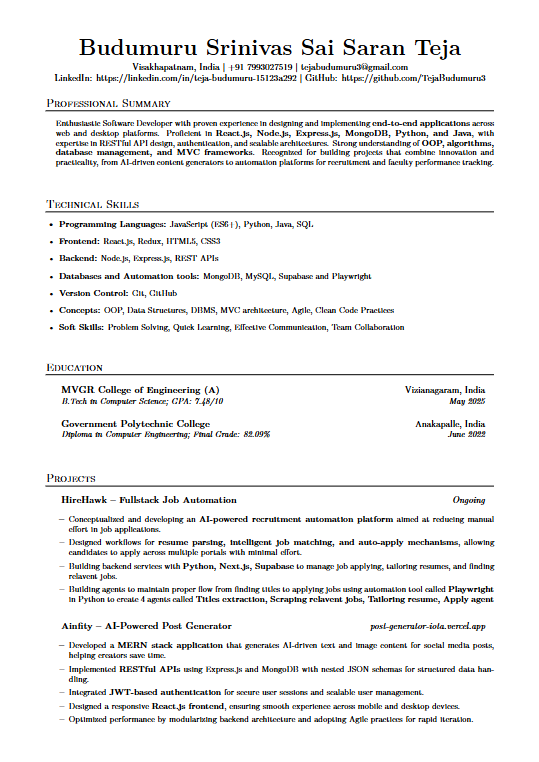
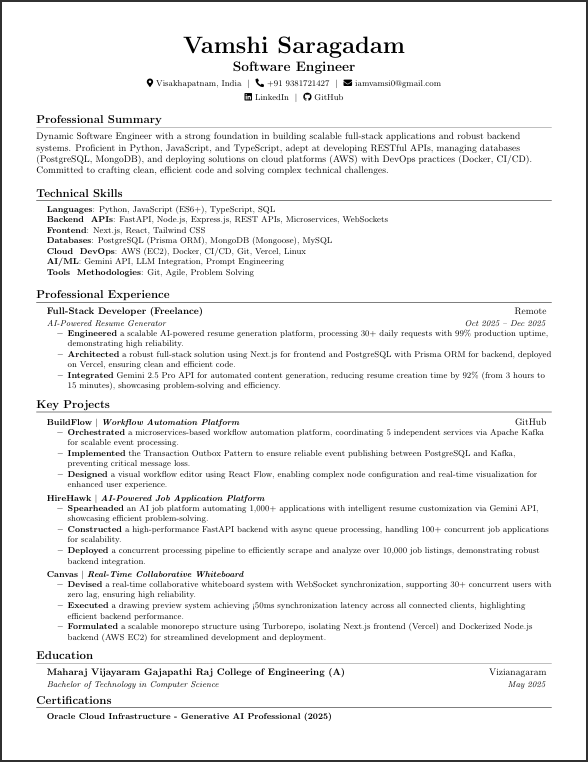
fix: update browser visibility in scraper agent and enhance LinkedIn context handling with user checks

Changed region(s): [[0.0594, 0.0302, 0.9499, 0.9659], [0.0, 0.0, 1.0, 1.0]]

diff --git a/my-fe/app/utiles/agentsCall.ts b/my-fe/app/utiles/agentsCall.ts
@@ -10,8 +10,9 @@ interface JobsData{
 async function sendUrl(url: string, user_id: string, password: string) {
     let progress_user: string | null
     const { data, error } = await getLoginUser();
-    if(data?.user){
+    if(data?.user.email){
         progress_user = data?.user.user_metadata.email
+        console.log('email from data progress ', data.user.email)
     }
     else progress_user = null
 try {

diff --git a/backend_python/agents/tailor.py b/backend_python/agents/tailor.py
@@ -119,168 +119,180 @@ def extract_resume_text(url: str) -> str:
 
 # ╭── Prompt builder ─────────────────────────────────────────────╮
 _SAMPLE0 = r"""
-\documentclass[a4paper,12pt]{article}
-
+\documentclass[letterpaper,10pt]{article}
+\usepackage{latexsym}
 \usepackage[empty]{fullpage}
 \usepackage{titlesec}
+\usepackage{marvosym}
+\usepackage[usenames,dvipsnames]{color}
+\usepackage{verbatim}
 \usepackage{enumitem}
 \usepackage[hidelinks]{hyperref}
 \usepackage{fancyhdr}
+\usepackage{fontawesome5} 
+\usepackage[english]{babel}
+\usepackage{tabularx}
+\input{glyphtounicode}
 
+% --- MARGINS & SPACING ---
 \pagestyle{fancy}
-\fancyhf{}
+\fancyhf{} 
 \fancyfoot{}
 \renewcommand{\headrulewidth}{0pt}
 \renewcommand{\footrulewidth}{0pt}
 
-% Adjusted margins for proper whitespace
-\addtolength{\oddsidemargin}{-0.3in}
-\addtolength{\evensidemargin}{-0.3in}
-\addtolength{\textwidth}{0.6in}
-\addtolength{\topmargin}{-0.4in}
-\addtolength{\textheight}{0.8in}
+% Optimized margins for 1-page fit
+\addtolength{\oddsidemargin}{-0.5in}
+\addtolength{\evensidemargin}{-0.5in}
+\addtolength{\textwidth}{1.0in}
+\addtolength{\topmargin}{-0.5in}
+\addtolength{\textheight}{1.0in}
 
-% Formatting for section titles
-\titleformat{\section}{%
-  \scshape\raggedright\large
-}{}{0em}{}[\titlerule]
+\urlstyle{same}
+\raggedbottom
+\raggedright
+\setlength{\tabcolsep}{0in}
 
-\newcommand{\resumeItem}[1]{\item\small{{#1}}}
+% --- SECTION FORMATTING ---
+\titleformat{\section}{
+  \vspace{-4pt}\scshape\raggedright\large\bfseries
+}{}{0em}{}[\color{black}\titlerule \vspace{-5pt}]
 
-% Subheading for education (4 args)
-\newcommand{\resumeSubheading}[4]{\vspace{2pt}\item
+% --- CUSTOM COMMANDS ---
+\newcommand{\resumeItem}[1]{
+  \item\small{
+    {#1 \vspace{-2pt}}
+  }
+}
+
+\newcommand{\resumeProjectHeading}[2]{
+    \item
+    \begin{tabular*}{0.97\textwidth}{l@{\extracolsep{\fill}}r}
+      \small\textbf{#1} & #2 \\
+    \end{tabular*}\vspace{-7pt}
+}
+
+\newcommand{\resumeSubheading}[4]{
+  \vspace{-1pt}\item
     \begin{tabular*}{0.97\textwidth}[t]{l@{\extracolsep{\fill}}r}
-      {\bfseries #1} & #2 \\
+      \textbf{#1} & #2 \\
       \textit{\small#3} & \textit{\small #4} \\
-    \end{tabular*}\vspace{2pt}
+    \end{tabular*}\vspace{-7pt}
 }
 
-% Project heading (2 args)
-\newcommand{\resumeProjectHeading}[2]{\item
-  \begin{tabular*}{0.97\textwidth}{l@{\extracolsep{\fill}}r}
-    {\bfseries #1} & \textit{#2} \\
-  \end{tabular*}\vspace{2pt}
-}
-
-\newcommand{\resumeItemListStart}{\begin{itemize}[leftmargin=0.2in]}
-\newcommand{\resumeItemListEnd}{\end{itemize}\vspace{6pt}}
 \newcommand{\resumeSubHeadingListStart}{\begin{itemize}[leftmargin=0.15in, label={}]}
-\newcommand{\resumeSubHeadingListEnd}{\end{itemize}\vspace{8pt}}
-\newcommand{\resumeSubHeadingListEndNoSpace}{\end{itemize}\vspace{4pt}}
+\newcommand{\resumeSubHeadingListEnd}{\end{itemize}}
+\newcommand{\resumeItemListStart}{\begin{itemize}}
+\newcommand{\resumeItemListEnd}{\end{itemize}\vspace{-5pt}}
 
+%-------------------------------------------
+%  RESUME STARTS HERE
+%-------------------------------------------
 \begin{document}
 
-%----------HEADING----------
+%----------HEADER----------
 \begin{center}
     {\Huge \bfseries Budumuru Srinivas Sai Saran Teja} \\ \vspace{3pt}
-    Visakhapatnam, India $|$ +91 7993027519 $|$ \href{mailto:tejabudumuru3@gmail.com}{tejabudumuru3@gmail.com} \\
-    \href{https://linkedin.com/in/teja-budumuru-15123a292}{LinkedIn} $|$ 
-    \href{https://github.com/TejaBudumuru3}{GitHub}
+    {\Large \bfseries Backend Engineer \& GenAI Specialist} \\ \vspace{5pt}
+    
+    \small
+    \faMapMarker* Visakhapatnam, India \ $|$ \ 
+    \faPhone* +91 7993027519 \ $|$ \ 
+    \faEnvelope \ \href{mailto:tejabudumuru3@gmail.com}{tejabudumuru3@gmail.com} \\ \vspace{4pt}
+    
+    \faLinkedin \ \href{https://www.linkedin.com/in/srinivas-sai-saran-teja-budumuru-15123a292/}{Linkedin} \ $|$ \ 
+    \faGithub \ \href{https://github.com/TejaBudumuru3}{Github} \ $|$ \ 
+    \faGlobe \ \href{https://teja-budumuru.vercel.app}{Portfolio}
 \end{center}
 
 %-----------PROFESSIONAL SUMMARY-----------
 \section{Professional Summary}
+Full-Stack AI Engineer capable of delivering end-to-end SaaS solutions. Proven ability to architect complex workflow engines (DAGs) and AI-powered platforms using the \textbf{MERN Stack} and \textbf{FastAPI}. Skilled in modern Cloud DevOps (\textbf{AWS/CI/CD}) and API design. Passionate about leveraging Large Language Models (LLMs) to solve complex business problems through intelligent, human-in-the-loop automation.
+
+%-----------TECHNICAL SKILLS (Fixed & Complete)-----------
+\section{Technical Skills}
+ \begin{itemize}[leftmargin=0.15in, label={}]
+    \small{\item{
+     \textbf{Languages}{: Python, JavaScript (ES6+), TypeScript, SQL, Java} \\
+     \textbf{Backend \& AI}{: FastAPI, Node.js, Express.js, Microservices, Gemini API, Kafka, WebSockets, Webhook}
+     \\
+     \textbf{Frontend}{: React.js, Next.js, Tailwindcss, Bootstrap Css, HTML, CSS}
+     \textbf{Database \& Infra}{: Supabase(PostgreSQL), MongoDB, Docker, AWS (EC2), CI/CD (GitHub Actions), Prisma ORM} \\
+     \textbf{Tools \& Traits}{: Playwright, Redux, Postman, Git, Agile, Teamwork, Problem Solving}
+    }}
+ \end{itemize}
+
+%-----------PROJECTS-----------
+\section{Key Projects}
 \resumeSubHeadingListStart
-\resumeItem{
-Enthusiastic Software Developer with proven experience in designing and implementing \textbf{end-to-end applications} across web and desktop platforms. Proficient in \textbf{React.js, Node.js, Express.js, MongoDB, Python, and Java}, with expertise in RESTful API design, authentication, and scalable architectures. Strong understanding of \textbf{OOP, algorithms, database management, and MVC frameworks}. Recognized for building projects that combine innovation and practicality, from AI-driven content generators to automation platforms for recruitment and faculty performance tracking.
-}
+
+    % PROJECT 1: BuildFlow (N8N Clone)
+    \resumeProjectHeading
+    {\textbf{BuildFlow} $|$ \emph{Workflow Automation Engine}}
+    {\href{https://github.com/Dev-Pross/BuildFlow}{Github}}
+    \resumeItemListStart
+        \resumeItem{\textbf{Spearheaded} the architecture of a low-code platform capable of executing \textbf{Directed Acyclic Graphs (DAGs)}, targeting sub-200ms latency per node.}
+        \resumeItem{\textbf{Orchestrated} a distributed task processing system using \textbf{TypeScript} and \textbf{Kafka}, enabling asynchronous execution of concurrent workflows.}
+        \resumeItem{\textbf{Formulated} a resilient state management module to handle execution context, mitigating workflow failures by \textbf{40\%} via automated error propagation.}
+    \resumeItemListEnd
+
+    % PROJECT 2: HireHawk
+    \resumeProjectHeading
+    {\textbf{HireHawk} $|$ \emph{AI Job Automation Agent}}
+    {\href{https://dev-hire-znlr.vercel.app/}{Live Link}}
+    \resumeItemListStart
+        \resumeItem{\textbf{Devised} an AI Agent that curtails manual job application time by \textbf{80\%} using a "Human-in-the-Loop" architecture with \textbf{Playwright}.}
+        \resumeItem{\textbf{Embedded} a \textbf{Context-Aware Resume Engine} that parses JDs and user data to dynamically synthesize tailored resumes using \textbf{Gemini API}.}
+        \resumeItem{\textbf{Engineered} a high-volume batch processing pipeline capable of sustaining \textbf{10+ sequential applications} per session without IP throttling.}
+    \resumeItemListEnd
+
+    % PROJECT 3: Ainfinity
+    \resumeProjectHeading
+    {\textbf{Ainfinity} $|$ \emph{Generative AI Content SaaS}}
+    {\href{https://post-generator-iota.vercel.app/}{Live Link}}
+    \resumeItemListStart
+        \resumeItem{\textbf{Constructed} a full-stack content generation platform using the \textbf{MERN Stack}, accelerating RESTful API response times to under \textbf{300ms}.}
+        \resumeItem{\textbf{Fortified} secure session management using \textbf{HTTP-Only Cookies}, eliminating potential XSS and CSRF vulnerabilities.}
+        \resumeItem{\textbf{Synchronized} global application state using \textbf{Redux Toolkit}, ensuring seamless data consistency across the frontend.}
+    \resumeItemListEnd
+
 \resumeSubHeadingListEnd
 
+%-----------PROFESSIONAL EXPERIENCE-----------
+\section{Professional Experience}
+\resumeSubHeadingListStart
 
-%-----------TECHNICAL SKILLS-----------
-\section{Technical Skills}
-\resumeItemListStart
-  \resumeItem{\textbf{Programming Languages:} JavaScript (ES6+), Python, Java, SQL}
-  \resumeItem{\textbf{Frontend:} React.js, Redux, HTML5, CSS3}
-  \resumeItem{\textbf{Backend:} Node.js, Express.js, REST APIs}
-  \resumeItem{\textbf{Databases and Automation tools:} MongoDB, MySQL, Supabase and Playwright}
-  \resumeItem{\textbf{Version Control:} Git, GitHub}
-  \resumeItem{\textbf{Concepts:} OOP, Data Structures, DBMS, MVC architecture, Agile, Clean Code Practices}
-  \resumeItem{\textbf{Soft Skills:} Problem Solving, Quick Learning, Effective Communication, Team Collaboration}
-\resumeItemListEnd
+    \resumeSubheading
+      {Backend API Engineer}{Remote}
+      {Freelance Project: Resume Tailoring \& Portfolio Engine}{Nov 2025 -- Present}
+      \resumeItemListStart
+        \resumeItem{\textbf{Tailored} a production-ready API for generating ATS-friendly resumes, optimizing dynamic templates to reduce document generation latency by \textbf{40\%}.}
+        \resumeItem{\textbf{Unified} data ingestion pipelines by creating polymorphic endpoints that process both raw JSON and PDF inputs.}
+        \resumeItem{\textbf{Provisioned} production infrastructure on \textbf{AWS EC2} using Docker, ensuring \textbf{reliable 24/7 system availability} for client operations.}
+      \resumeItemListEnd
+
+\resumeSubHeadingListEnd
 
 %-----------EDUCATION-----------
 \section{Education}
-\resumeSubHeadingListStart
-  \resumeSubheading
-    {MVGR College of Engineering (A)}{Vizianagaram, India}
-    {B.Tech in Computer Science; GPA: 7.48/10}{May 2025}
-  \resumeSubheading
-    {Government Polytechnic College}{Anakapalle, India}
-    {Diploma in Computer Engineering; Final Grade: 82.09\%}{June 2022}
-\resumeSubHeadingListEnd
-
-%-----------PROJECTS-----------
-\section{Projects}
-\resumeSubHeadingListStart
-
-\resumeProjectHeading
-    {HireHawk – Fullstack Job Automation}{Ongoing}
-    \resumeItemListStart
-      \resumeItem{Conceptualized and developing an \textbf{AI-powered recruitment automation platform} aimed at reducing manual effort in job applications.}
-      \resumeItem{Designed workflows for \textbf{resume parsing, intelligent job matching, and auto-apply mechanisms}, allowing candidates to apply across multiple portals with minimal effort.}
-      \resumeItem{Building backend services with \textbf{Python, Next.js, Supabase} to manage job applying, tailoring resumes, and finding relavent jobs.}
-      \resumeItem{Building agents to maintain proper flow from finding titles to applying jobs using automation tool called \textbf{Playwright} in Python to create 4 agents called \textbf{Titles extraction, Scraping relavent jobs, Tailoring resume, Apply agent}}
-    \resumeItemListEnd
-
-\resumeProjectHeading
-    {Ainfity – AI-Powered Post Generator}{{\href{https://post-generator-iota.vercel.app/}{post-generator-iota.vercel.app}}}
-    \resumeItemListStart
-      \resumeItem{Developed a \textbf{MERN stack application} that generates AI-driven text and image content for social media posts, helping creators save time.}
-      \resumeItem{Implemented \textbf{RESTful APIs} using Express.js and MongoDB with nested JSON schemas for structured data handling.}
-      \resumeItem{Integrated \textbf{JWT-based authentication} for secure user sessions and scalable user management.}
-      \resumeItem{Designed a responsive \textbf{React.js frontend}, ensuring smooth experience across mobile and desktop devices.}
-      \resumeItem{Optimized performance by modularizing backend architecture and adopting Agile practices for rapid iteration.}
-    \resumeItemListEnd
-
-\resumeProjectHeading
-    {Faculty Performance Monitor}{}
-    \resumeItemListStart
-      \resumeItem{Developed a \textbf{Java-based web portal} using JSP and MySQL for tracking faculty workload and performance scores.}
-      \resumeItem{Implemented role-based access controls, enabling administrators to assign credits and generate evaluation reports.}
-      \resumeItem{Applied \textbf{MVC architecture} to ensure clean separation of logic, improving maintainability and scalability.}
-      \resumeItem{Optimized SQL queries to improve reporting efficiency and ensure quick data retrieval for administrators.}
-    \resumeItemListEnd
-
-\resumeProjectHeading
-    {Employee Management System}{}
-    \resumeItemListStart
-      \resumeItem{Created a \textbf{Python desktop application} with Tkinter GUI and MySQL backend for automating employee payroll processes.}
-      \resumeItem{Developed modules for \textbf{salary computation, tax deduction, and employee record management}.}
-      \resumeItem{Implemented validation and exception handling to ensure reliable data storage and reduce errors in payroll.}
-      \resumeItem{Minimized manual intervention, thereby reducing processing time and improving organizational efficiency.}
-    \resumeItemListEnd
-
-\resumeSubHeadingListEnd
+  \resumeSubHeadingListStart
+    \resumeSubheading
+      {MVGR College of Engineering (A)}{Vizianagaram}
+      {B.Tech in Computer Science and Engineering;}{May 2025}
+    \resumeSubheading
+      {Government Polytechnic College}{Anakapalle}
+      {Diploma in Computer Engineering; }{June 2022}
+  \resumeSubHeadingListEnd
 
 %-----------CERTIFICATIONS-----------
 \section{Certifications}
 \resumeSubHeadingListStart
-\resumeItem{AI and Machine Learning -- AICTE}
-\resumeItem{Cloud Computing -- NPTEL}
-\resumeItem{Java JUnit -- Infosys SpringBoard}
-\resumeItem{Foundations of Artificial Intelligence -- SkillUp}
+    \resumeItem{\textbf{Oracle Certified Generative AI Professional (2025)} -- \href{https://catalog-education.oracle.com/ords/certview/sharebadge?id=BD6B7CF412F7B7B177182CB5A13B29CE3218255114ABB2C19070B7B5A512E48F}{[Verify Badge]}}
+    \resumeItem{\textbf{Oracle Cloud Infrastructure Foundations Associate} -- \href{https://catalog-education.oracle.com/ords/certview/sharebadge?id=1DCE05167148ED0D0575B553F7110B6CACC6BFBA54E628910002B76EBE582144}{[Verify Badge]}}
 \resumeSubHeadingListEnd
 
-%-----------ACHIEVEMENTS-----------
-\section{Achievements}
-\resumeItemListStart
-  \resumeItem{Participated in Pega Systems Hackathon, demonstrating innovation, problem-solving, and teamwork skills.}
-
-  \resumeItem{Recognized for artistic achievements in drawing competitions (early academic years).}
-\resumeItemListEnd
-
-%-----------LANGUAGES-----------
-\section{Languages}
-\resumeSubHeadingListStart
-  \resumeItem{\textbf{English:} Advanced}
-  \resumeItem{\textbf{Telugu:} Native Proficiency}
-\resumeSubHeadingListEndNoSpace
-
 \end{document}
-
-
-"""
+    """
 
 _SAMPLE1 = r"""
 \documentclass[a4paper,10pt]{article}
@@ -713,7 +725,7 @@ This prompt provides detailed explanations for each step. Understanding the 'why
 1.  **Parse and Structure First**: Your initial and most critical task is to convert the unstructured, messy text from a PDF into a clean, structured internal representation. You cannot tailor content you do not understand.
     * **Rationale**: PDF text extraction is imperfect. Raw text will have random line breaks and spacing. You must intelligently group this text into logical resume sections (Summary, Skills, Projects, etc.) before any tailoring can begin.
 
-2.  **Tailor with Precision and Honesty**: You will strategically rewrite specific sections of the resume to align with the job description. However, you must never invent skills or experiences the candidate does not possess. Your goal is to highlight existing qualifications, not to fabricate new ones.
+2.  **Tailor with Precision and Honesty**: You will strategically rewrite specific sections of the resume to align with the job description. However, you must never invent skills or experiences the candidate does not possess. Your goal is to highlight existing qualifications, not to fabricate new ones. Don't use repeated verbs, use fancy verbs and make sure grammatical mistake free resume with short Professional Summary for single page resume(SPR) to fit all content in one page it self only for FRESHER /(NO PROFESSIONAL EXPERIENCED CANDIDATES)
     * **Rationale**: Honesty is paramount. While the goal is to pass ATS scans, the resume must be a truthful representation of the candidate for the human hiring manager who will read it next.
 
 3.  **Reconstruct with Flawless Code**: The final output must be a syntactically perfect LaTeX document formatted according to the provided template.

diff --git a/backend_python/database/linkedin_context.py b/backend_python/database/linkedin_context.py
@@ -20,8 +20,15 @@ def save_linkedin_context(user_id: str, context_data: dict):
             WHERE email = %s
         """
         cursor.execute(query, (Json(context_data), datetime.utcnow(), user_id))
+        rows_affected = cursor.rowcount
         conn.commit()
-        print(f"✅ LinkedIn context saved for user {user_id}")
+        
+        if rows_affected == 0:
+            print(f"⚠ No user found with email '{user_id}' - context NOT saved!")
+            print(f"   Hint: Check if user exists in database or if email is correct")
+            return False
+        
+        print(f"✅ LinkedIn context saved for user {user_id} ({rows_affected} row(s) updated)")
         return True
     except Exception as e:
         conn.rollback()
@@ -37,6 +44,25 @@ def get_linkedin_context(user_id: str):
     cursor = conn.cursor()
     
     try:
+        # Debug: Check if user exists first
+        check_query = """
+            SELECT email, linkedin_context IS NOT NULL as has_context 
+            FROM public."User" 
+            WHERE email = %s
+        """
+        cursor.execute(check_query, (user_id,))
+        check_result = cursor.fetchone()
+        
+        if check_result:
+            print(f"🔍 User found: {check_result[0]}, has_context: {check_result[1]}")
+        else:
+            print(f"⚠ No user found with email: '{user_id}'")
+            # List existing users for debugging (first 5)
+            cursor.execute('SELECT email FROM public."User" LIMIT 5')
+            existing = cursor.fetchall()
+            print(f"   Existing users (sample): {[u[0] for u in existing]}")
+            return None
+        
         query = """
             SELECT linkedin_context 
             FROM public."User" 
@@ -46,7 +72,7 @@ def get_linkedin_context(user_id: str):
         result = cursor.fetchone()
         
         if result and result[0]:
-            # print("context:",result)
+            print(f"✅ Retrieved LinkedIn context for user {user_id}")
             return result[0]  # Return only the context data
         return None
     except Exception as e:

diff --git a/backend_python/agents/scraper_agent.py b/backend_python/agents/scraper_agent.py
@@ -1122,7 +1122,7 @@ async def search_by_job_titles_speed_optimized(job_titles,platforms=None, progre
     
     async with async_playwright() as p:
         browser = await p.chromium.launch(
-            headless=True,
+            headless=False,
             args=[
                 '--no-sandbox', '--disable-dev-shm-usage', '--disable-gpu', '--no-zygote', '--disable-extensions', '--disable-background-networking', '--disable-renderer-backgrounding', '--no-first-run', '--mute-audio', '--metrics-recording-only'
             ]
